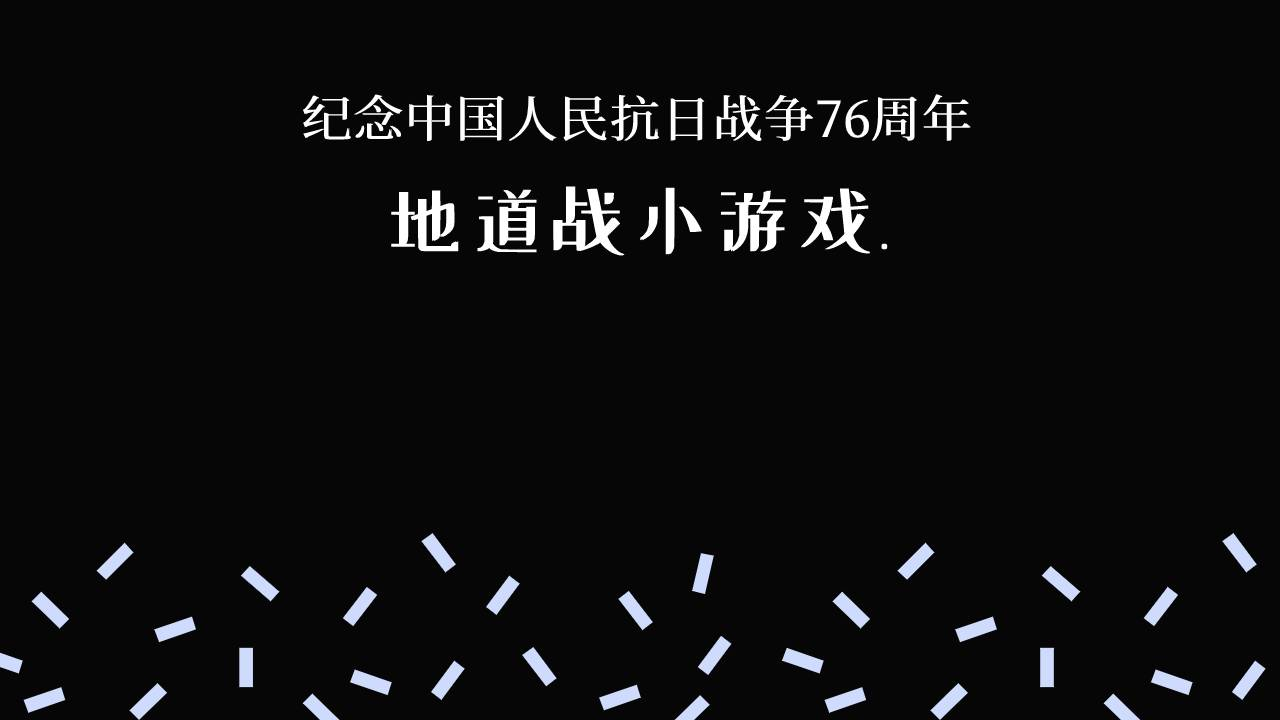
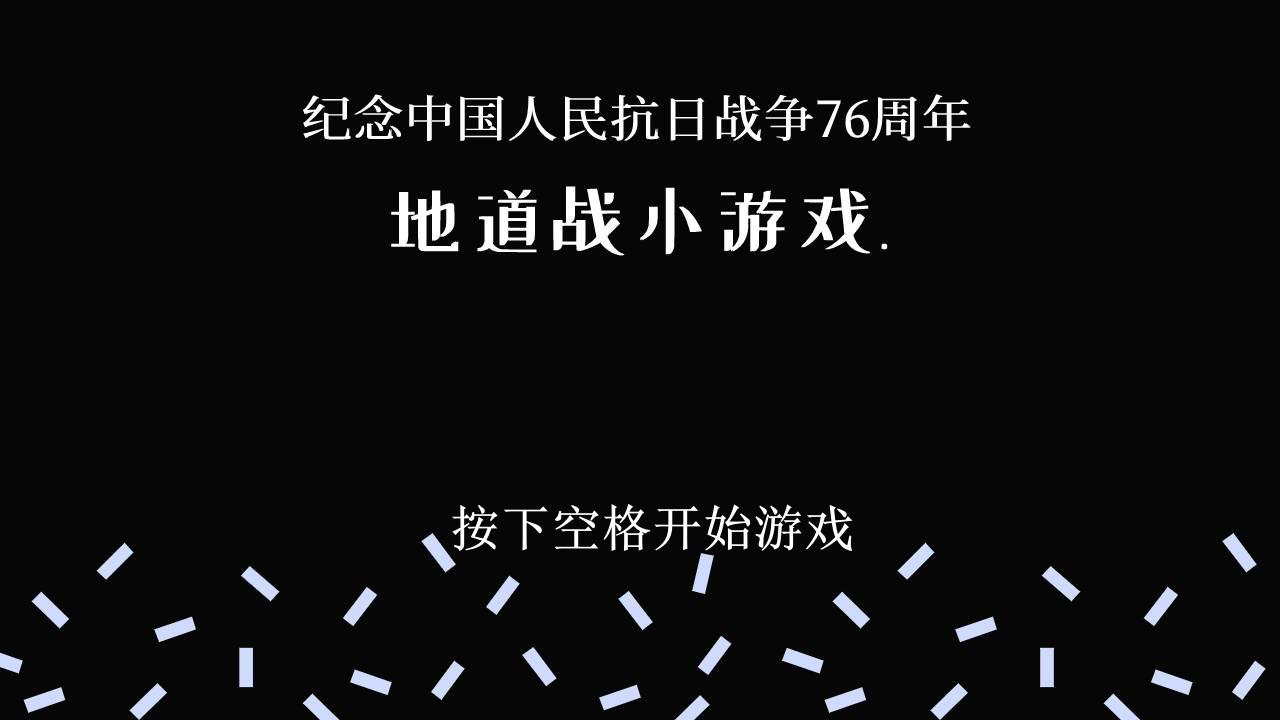
final

Changed region(s): [[0.3438, 0.7028, 0.6875, 0.7639]]

diff --git a/tunnel_warfare/actor/__init__.py b/tunnel_warfare/actor/__init__.py
@@ -4,7 +4,7 @@ import pygame.image
 
 
 class ActionByMulti:
-    def __init__(self,path_expression:str, image_count:int, is_loop:bool):
+    def __init__(self, path_expression: str, image_count: int, is_loop: bool):
         """
         初始化构造函数
         :param path_expression:路径表达式
@@ -16,8 +16,8 @@ class ActionByMulti:
         self.image_count = image_count
         self.is_loop = is_loop
 
-        for i in range(0,image_count):
-            image_path = str.format(path_expression % (i + 1 ))
+        for i in range(0, image_count):
+            image_path = str.format(path_expression % (i + 1))
             self.action_images.append(pygame.image.load(image_path))
 
     def get_image(self) -> pygame.image:
@@ -27,15 +27,15 @@ class ActionByMulti:
         """
         current_image = self.action_images[self.image_index]
 
-        self.image_index +=1
+        self.image_index += 1
         if self.image_index >= self.image_count:
             if self.is_loop:
-                self.image_index=0
+                self.image_index = 0
             else:
-                self.image_index=self.image_count-1;
+                self.image_index = self.image_count - 1;
         return current_image
 
-    def is_end(self)->bool:
+    def is_end(self) -> bool:
         """
         播放完毕否
         :return:
@@ -43,7 +43,7 @@ class ActionByMulti:
         if self.is_loop:
             return False
         else:
-            if self.image_index >= self.image_count-1:
+            if self.image_index >= self.image_count - 1:
                 return True
             else:
                 return False
@@ -58,17 +58,18 @@ class WalkDir(enum.IntEnum):
     right = 2
     up = 3
 
+
 class DirWalkByAImage:
     """
     四个方向的行走 下，左，右，上
     """
-    image_count =16
+    image_count = 16
     image_col = 4
     image_width = 49
     image_height = 74
     walk_dir = WalkDir.down
 
-    def __init__(self,path_name:str,image_width:int,image_height:int,is_loop:bool):
+    def __init__(self, path_name: str, image_width: int, image_height: int, is_loop: bool):
         """
         初始化
         :param path_name:
@@ -78,38 +79,38 @@ class DirWalkByAImage:
         """
         self.path_name = path_name
         self.image_index = 0
-        self.action_images = []#四个方向的数组
-        self.image_width=image_width
-        self.image_height=image_height
+        self.action_images = []  # 四个方向的数组
+        self.image_width = image_width
+        self.image_height = image_height
         self.is_loop = is_loop
         self.image = pygame.image.load(path_name)
         for i in range(0, self.image_count):
-           row = int(i/self.image_col)
-           col = i % self.image_col
-           if col == 0:
-               dir = []
-               self.action_images.append(dir)
-           rect = (col * self.image_width,
-                   row * self.image_height,
-                   self.image_width,self.image_height)
+            row = int(i / self.image_col)
+            col = i % self.image_col
+            if col == 0:
+                dir = []
+                self.action_images.append(dir)
+            rect = (col * self.image_width,
+                    row * self.image_height,
+                    self.image_width, self.image_height)
 
-           sub_image = self.image.subsurface(rect)
-           dir.append(sub_image)
+            sub_image = self.image.subsurface(rect)
+            dir.append(sub_image)
 
-    def get_image(self)->pygame.image:
+    def get_image(self) -> pygame.image:
         current_image = self.action_images[self.walk_dir][self.image_index]
         self.image_index += 1;
         if self.image_index >= self.image_col:
             if self.is_loop:
-                self.image_index=0
+                self.image_index = 0
             else:
-                self.image_index = self.col-1
+                self.image_index = self.col - 1
         return current_image
 
-    def set_dir(self,dir):
+    def set_dir(self, dir):
         self.walk_dir = dir
 
-    def is_end(self)->bool:
+    def is_end(self) -> bool:
         if self.is_loop:
             return False
         else:
@@ -117,6 +118,7 @@ class DirWalkByAImage:
                 return True
             else:
                 return False
+
 
 class ShootDir(enum.IntEnum):
     not_shoot = 0
@@ -140,9 +142,9 @@ class DirShootByAImage(DirWalkByAImage):
         :return:
         """
 
-        DirShootByAImage.up_shoot_image = pygame.image.load("./resources/images/shoot/up_shoot.png")\
+        DirShootByAImage.up_shoot_image = pygame.image.load("./resources/images/shoot/up_shoot.png") \
             .convert_alpha()
-        DirShootByAImage.down_shoot_image = pygame.image.load("./resources/images/shoot/down_shoot.png")\
+        DirShootByAImage.down_shoot_image = pygame.image.load("./resources/images/shoot/down_shoot.png") \
             .convert_alpha()
 
     def __init__(self, shoot_image_path: str, image_width: int
@@ -157,7 +159,7 @@ class DirShootByAImage(DirWalkByAImage):
         """
         if self.shoot_dir == ShootDir.not_shoot:
             return None
-        if self.shoot_dir  < ShootDir.up:
+        if self.shoot_dir < ShootDir.up:
             current_image = self.action_images[self.shoot_dir - 1][self.image_index]
             self.image_index += 1
             if self.image_index >= self.image_col:
@@ -165,7 +167,7 @@ class DirShootByAImage(DirWalkByAImage):
                     self.image_index = 0
                 else:
                     self.image_index = self.image_col - 1
-        elif self.shoot_dir  == ShootDir.up:
+        elif self.shoot_dir == ShootDir.up:
             current_image = DirShootByAImage.up_shoot_image
         else:
             current_image = DirShootByAImage.down_shoot_image
@@ -178,5 +180,3 @@ class DirShootByAImage(DirWalkByAImage):
         :return:
         """
         self.shoot_dir = dir
-
-

diff --git a/tunnel_warfare/scene/welcome_scene.py b/tunnel_warfare/scene/welcome_scene.py
@@ -5,26 +5,26 @@ from scene import BaseScene, ScenePassStatus
 
 
 class WelcomeScene(BaseScene):
-    def __init__(self,xiao_tie):
+    def __init__(self, xiao_tie):
         super(WelcomeScene, self).__init__(xiao_tie,
                                            "./resources/images/welcome/welcome.jpg")
-        self.actor = WelcomeSprite(50,300)
+        self.actor = WelcomeSprite(50, 300)
         pygame.mixer.music.load("./resources/sound/地道战.mp3")
         pygame.mixer.music.play(start=20)
 
     def draw_actor(self):
-        self.actor.draw(self.current_surface,0,0)
+        self.actor.draw(self.current_surface, 0, 0)
 
-    def run(self,down_flag,key_list):
-        self.actor.run(down_flag,key_list)
-        if self.actor.pos_x>1000:
+    def run(self, down_flag, key_list):
+        self.actor.run(down_flag, key_list)
+        if self.actor.pos_x > 1000:
+            self.actor.pos_x = 0
+        if key_list[pygame.K_SPACE]:
             self.pass_status = ScenePassStatus.over
             pygame.mixer.music.stop()
 
     def get_pass_status(self):
         if self.pass_status != ScenePassStatus.over:
-            return self.pass_status,None
+            return self.pass_status, None
         else:
             return self.pass_status, "TunnelWarScene"
-
-

diff --git a/tunnel_warfare/actor/mine_boom.py b/tunnel_warfare/actor/mine_boom.py
@@ -11,7 +11,7 @@ class Mine(pygame.sprite.Sprite):
         self.rect = pygame.Rect(self.pos_x, self.pos_y, w, h)
 
     def draw(self, surface, view_x, view_y):
-        surface.blit(self.image, (self.pos_x - view_x, self.pos_y - view_y))
+        surface.blit(self.image, (self.pos_x - view_x + 15, self.pos_y - view_y + 45))
 
 
 class Boom(pygame.sprite.Sprite):
@@ -48,7 +48,7 @@ class Boom(pygame.sprite.Sprite):
             if self.no >= self.count:
                 return
         surface.blit(self.boom_image[self.no],
-                     (self.pos_x - view_x, self.pos_y - view_y))
+                     (self.pos_x - view_x + 20, self.pos_y - view_y - 20))
 
     def kill_flag(self):
         if self.no >= self.count:

diff --git a/tunnel_warfare/scene/task/task2_kill_japanene.py b/tunnel_warfare/scene/task/task2_kill_japanene.py
@@ -33,8 +33,8 @@ class KillJapaneseTask(BaseTask):
     def do_self_task(self, key_down, key_list):
         collide_list = pygame.sprite.groupcollide(self.mines_group, self.japanese_group, True, True)
         for item in collide_list:
-            self.__create_boom(item.rect.x - item.rect.width,
-                               item.rect.y - item.rect.height)
+            self.__create_boom(item.rect.x - item.rect.width + 20,
+                               item.rect.y - item.rect.height + 20)
             self.score += 1
 
         if self.score > 4:
